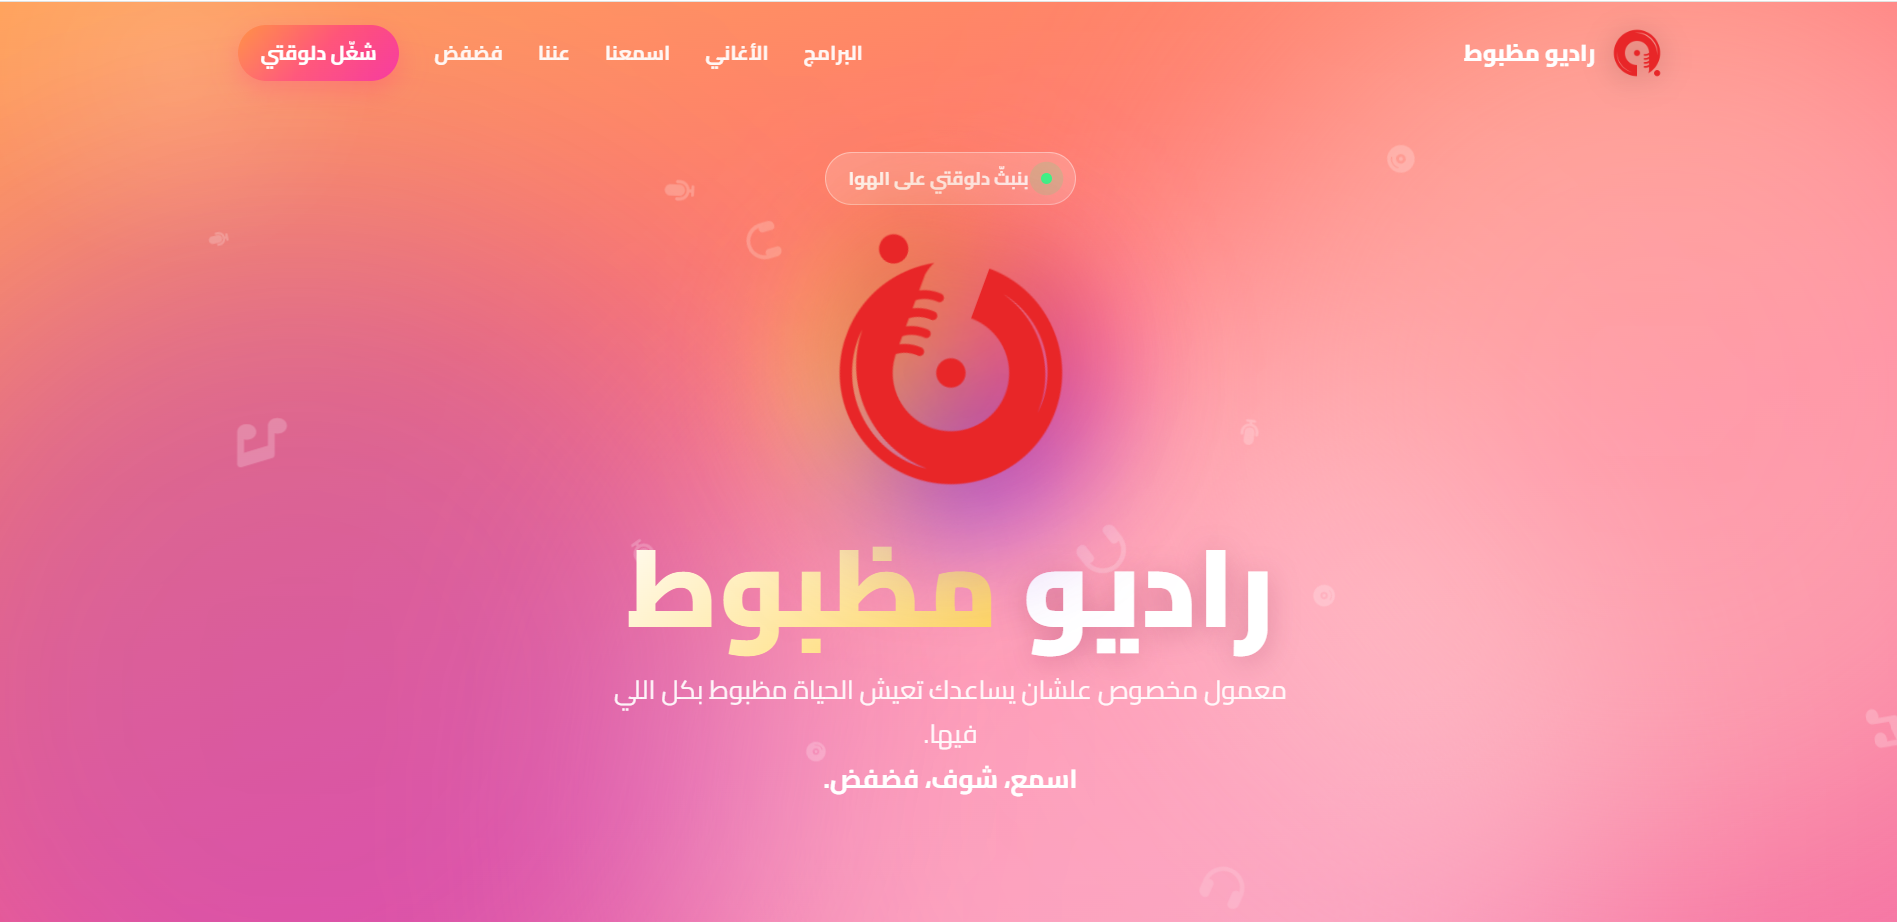
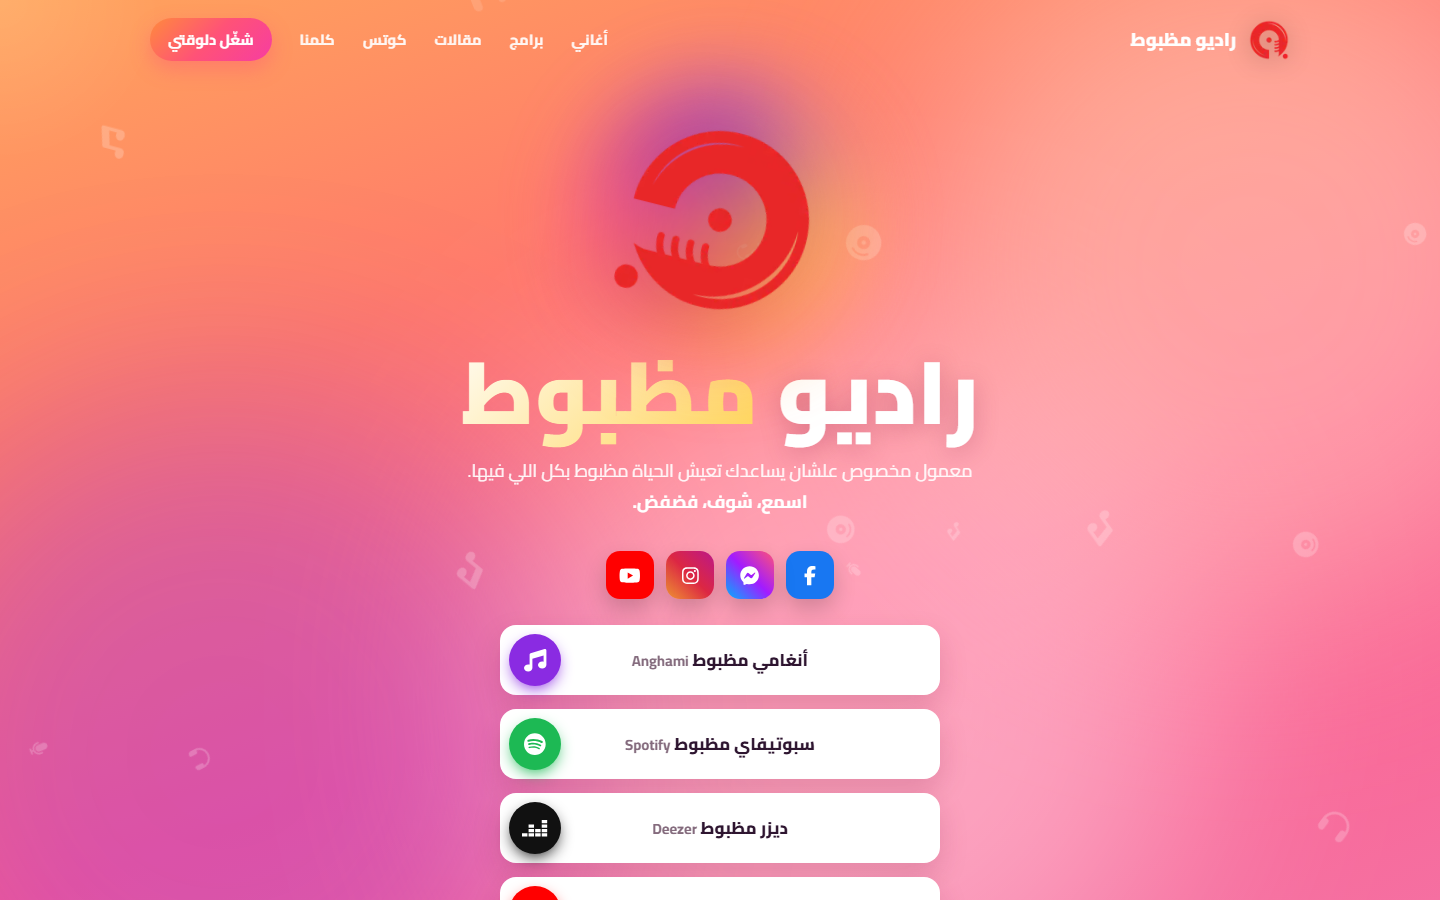
Add SMeals and Radio Mazboot, update project links
- Add SMeals as a new project card with a screenshot
- Restore the Radio Mazboot card (the company approved publishing) with
  its new Vercel URL, a fresh screenshot, and corrected tech tags
- Point Avaris Media at avarisco.net
- Make the Analytics Dashboard card live with its deployed URL

diff --git a/components/Projects.tsx b/components/Projects.tsx
@@ -45,21 +45,29 @@ const projects: Project[] = [
     title: 'Avaris Media',
     desc: 'A bold, cinematic site for a video production studio — aerial reels, services, and project intake.',
     tags: ['Next.js', 'Motion', 'Studio'],
-    href: 'https://avaris-website.vercel.app/',
+    href: 'https://avarisco.net/',
     live: true,
   },
-  // Temporarily hidden — pending the company's permission (privacy).
-  // Uncomment to bring it back.
-  // {
-  //   slug: 'radio-mazboot',
-  //   img: '/proj-4.png',
-  //   alt: 'Radio Mazboot (راديو مظبوط) — Arabic audio app',
-  //   title: 'Radio Mazboot — راديو مظبوط',
-  //   desc: 'A focused Arabic audio app for radio & recordings, deployed on Cloudflare Workers for instant global delivery.',
-  //   tags: ['React', 'Cloudflare', 'Audio'],
-  //   href: 'https://radio-mazboot.isaacerian5.workers.dev/',
-  //   live: true,
-  // },
+  {
+    slug: 'radio-mazboot',
+    img: '/proj-4.png',
+    alt: 'Radio Mazboot (راديو مظبوط) — Arabic radio & podcast site',
+    title: 'Radio Mazboot — راديو مظبوط',
+    desc: 'An Arabic radio site to stream shows, podcasts, and songs online — with links to every major music platform.',
+    tags: ['Next.js', 'RTL / Arabic', 'Audio'],
+    href: 'https://radio-mazboot.vercel.app/',
+    live: true,
+  },
+  {
+    slug: 'smeals',
+    img: '/proj-7.png',
+    alt: 'SMeals — gourmet meal subscription platform',
+    title: 'SMeals',
+    desc: 'A culinary subscription platform for fresh, chef-prepared meals — flexible scheduling and macro plans, in English and Arabic.',
+    tags: ['React', 'Subscriptions', 'EN / AR'],
+    href: 'https://s-meals.vercel.app/',
+    live: true,
+  },
   {
     slug: 'modernshop',
     img: '/proj-5.png',
@@ -75,10 +83,10 @@ const projects: Project[] = [
     img: '/proj-6.png',
     alt: 'Analytics Dashboard — admin dashboard',
     title: 'Analytics Dashboard',
-    desc: 'An analytics admin dashboard — projects, clients, revenue trends, and product breakdowns at a glance.',
-    tags: ['React', 'Dashboard', 'In progress'],
-    href: '',
-    live: false,
+    desc: 'An analytics admin dashboard for a media studio — revenue trends, project status, top clients, and invoices at a glance.',
+    tags: ['React', 'Dashboard', 'Analytics'],
+    href: 'https://dashboard-weld-nine-25.vercel.app/',
+    live: true,
   },
   {
     slug: 'project-3',
